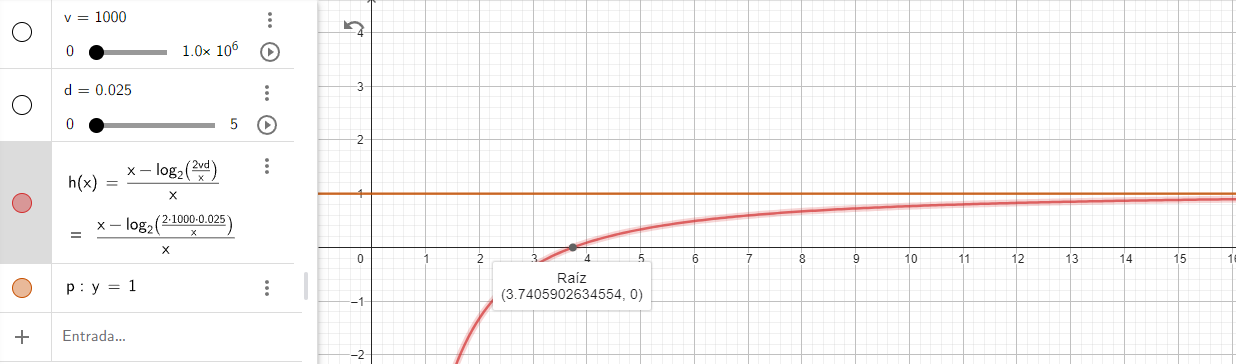
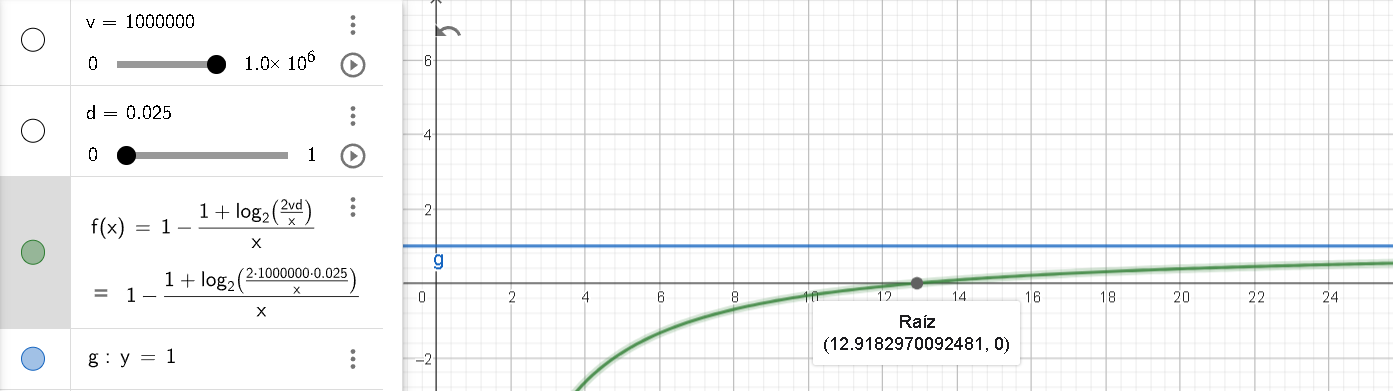
correji p1 ej13 e hice ej16

diff --git a/practicas/practica1/ej16/16.md b/practicas/practica1/ej16/16.md
@@ -1,0 +1,23 @@
+![](enunciado.png)
+
+### a
+
+#ACK(8bits);#SACK(8bits);Checksum
+
+### b
+
+$\eta_{proto}=\frac{T_{tx}(ventana)}{RTT(frame)}$
+
+$1 = \frac{|ventana|}{V_{tx}} \cdot \frac{1}{delay_{emisor} + delay_{receptor}} \iff delay_{emisor} + delay_{receptor} = \frac{|ventana|}{V_{tx}}$
+
+Como tenemos por enunciado que son 8 bits para identificar los frames, entonces podemos identificar 256 frames. Como queres evitar problemas de reencarnación y estamos en un esquema SACK entonces SWS = RWS = 128. Luego $|ventana|(bits) = 128 \cdot 5kb$
+
+$delay_{emisor} + delay_{receptor} = \frac{128 \cdot 5kb}{10Mbps} = 0.064s$
+
+Como el tiempo de transmisión de los frames son despreciables, podemos decir que $delay_{emisor} \approx delay_{receptor}$ y queda que el $delay = 0.032s$
+
+### c
+
+$SWS = \frac{V_{tx} \cdot 2 \cdot delay}{|frame|} = \frac{10Mbps \cdot 2 \cdot 1}{5kb} = 4000$ 
+
+Y como estamos en SACK $SWS = RWS = 4000$ por lo que se necesita identificar univocamente al menos 8000 frames para evitar rencarnaciones. Entonces se necesita $\lceil log_2(8000) \rceil = 13bits$

diff --git a/practicas/practica1/ej13/13.md b/practicas/practica1/ej13/13.md
@@ -14,13 +14,14 @@ Cuando estamos en un esquema de ACK selectivo $RWS = SWS$. Entonces tenemos
 
 $RWS = SWS = \frac{V_{tx} * RTT}{|frame|} = \frac{V_{tx} * 2*Delay}{|frame|}$
 
-Luego la cantidad de bits que use para secuenciar los frames será $b=\lceil log_2(SWS) \rceil$
+Para evitar los problemas de reencarnación necesitamos que $\#frames \geq SWS + RWS$
+
+Luego la cantidad de bits que use para secuenciar los frames será $b=\lceil log_2(SWS + RWS) \rceil = \lceil log_2(2*SWS) \rceil = \lceil 1 + log_2(SWS) \rceil$
 
 Y la eficiencia del frame emisor será $\frac{f-b}{f}$ donde $f = |frame|$. Reescribiendo la formula en función del tamaño del frame $f$:
 
-$$e(f) = 1 - \frac{log_2(\frac{2*V*D}{f})}{f}$$
+$$e(f) = 1 - \frac{1+log_2(\frac{2*V*D}{f})}{f}$$
 
-Y la eficiencia del frame receptor será $\frac{f-2b}{f}$
 
  
 ### b
